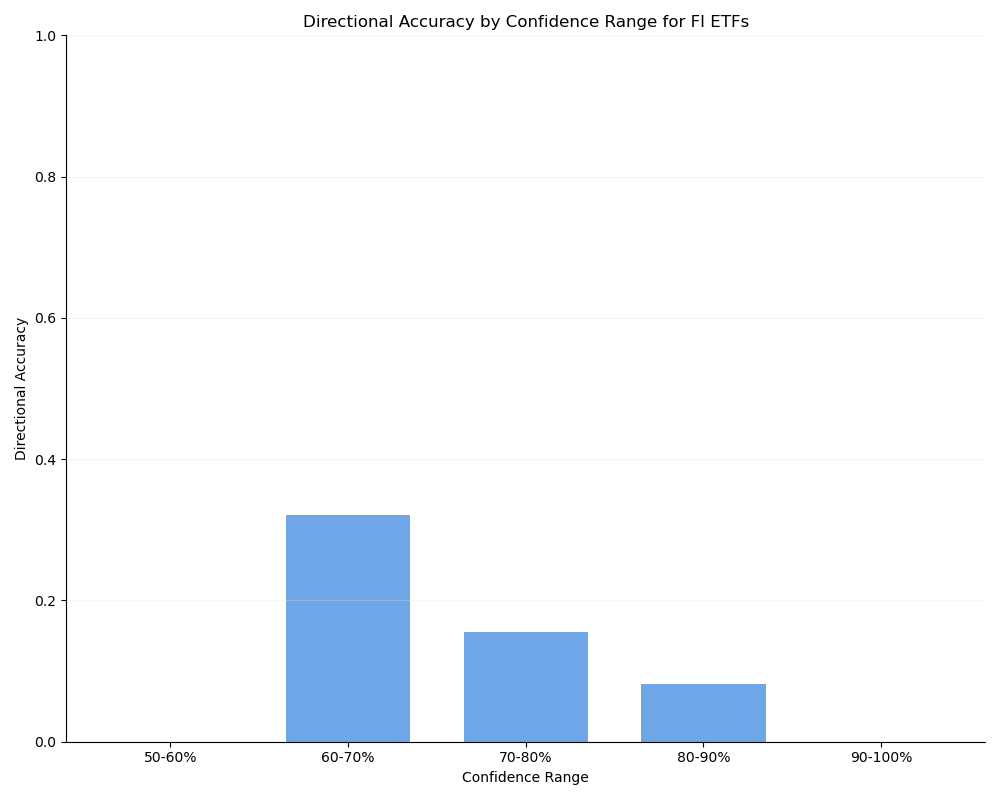
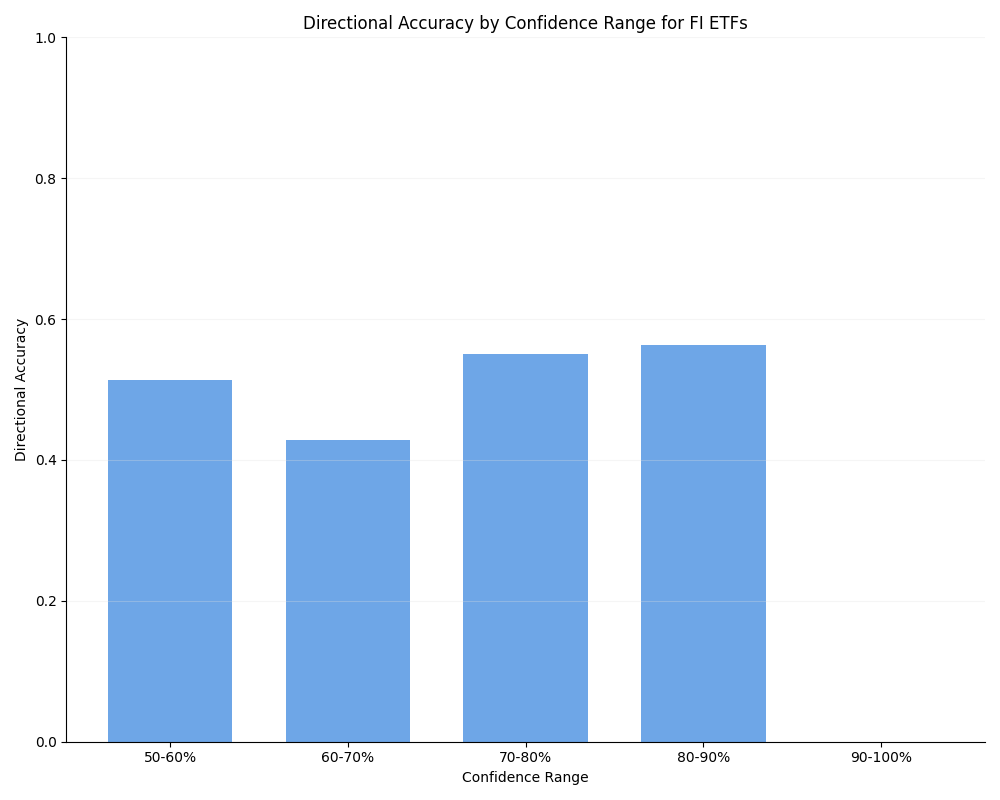
Fix Fixed Income Evaluator

diff --git a/0_evaluator.py b/0_evaluator.py
@@ -5,6 +5,54 @@ import os
 # 1.  CONFIG & DATA
 # ------------------------------------------------------------------
 from src.config.settings import PORTFOLIOS  
+def load_bond_etf_returns(filepath: str) -> pd.DataFrame:
+    """
+    Load bond ETF data from a CSV file and compute the full daily return for each ETF.
+    
+    The CSV file is expected to have at least the following columns:
+        - date: Trading date
+        - ticker: ETF ticker
+        - prc: Price (which may be negative for adjustments)
+        - ret: Daily price return (as a decimal)
+        - divamt: Dividend (or coupon) cash amount
+        - vwretd: Value-weighted total return (includes distributions)
+        
+    The function computes:
+        dividend_yield = divamt / abs(prc)   if prc is nonzero, else 0.
+        full_return = vwretd (if available) else ret + dividend_yield.
+    
+    The final DataFrame is pivoted so that the row index is the date and the columns are the ticker names.
+    
+    Parameters:
+        filepath (str): Path to the CSV file.
+    
+    Returns:
+        pd.DataFrame: Daily full return DataFrame with date as index and ticker as columns.
+    """
+    # Load the CSV file; ensure the date column is parsed as datetime.
+    df = pd.read_csv(filepath, parse_dates=['date'])
+    
+    # Ensure the required columns are present.
+    required_columns = ['date', 'ticker', 'prc', 'ret', 'divamt', 'vwretd']
+    missing = [col for col in required_columns if col not in df.columns]
+    if missing:
+        raise ValueError("Missing required columns: " + ", ".join(missing))
+    
+    # Compute dividend yield when price is nonzero.
+    df['dividend_yield'] = df.apply(lambda row: row['divamt'] / abs(row['prc']) if row['prc'] != 0 else 0, axis=1)
+    
+    # Compute full return:
+    # If vwretd is available (non-null), use it; otherwise, add the dividend yield to the price return.
+    df['computed_return'] = df.apply(
+        lambda row: row['vwretd'] if pd.notnull(row['vwretd']) else (row['ret'] + row['dividend_yield']),
+        axis=1
+    )
+    
+    # Pivot the DataFrame so that 'date' becomes the index and each ticker is a column.
+    full_return_df = df.pivot(index='date', columns='ticker', values='computed_return')
+    full_return_df.fillna(0, inplace=True)
+    
+    return full_return_df
 
 asset_class = "fi"  # fx, equity, fi, commodity
 PRED_FILE   = f"data/predictions/{asset_class}_weekly_predictions.csv"  
@@ -26,7 +74,7 @@ elif asset_class == "commodity":
 else:
     raise ValueError("Unsupported asset class")
 
-# date range that matches your back-test:
+# date range that matches back-test:
 START, END = "2023-11-03", "2025-03-28"
 
 # predictions  → wide matrix
@@ -35,14 +83,24 @@ pred = (pd.read_csv(PRED_FILE, parse_dates=["date"])
           .loc[START:END, TICKERS]
           .astype(float))
 
+
 # realised weekly return for NEXT week
 if PRICE_FILE and os.path.exists(PRICE_FILE):
     px = pd.read_csv(PRICE_FILE, index_col=0, parse_dates=True)[TICKERS]
 else:                                                                        # fallback
     px = yf.download(TICKERS, start=START, end=END, auto_adjust=True)["Adj Close"]
 
-weekly_px = px.resample("W-FRI").last().loc[START:END]
-realised  = weekly_px.pct_change().shift(-1).loc[pred.index]
+if asset_class == "fi":
+    daily = load_bond_etf_returns('data/bond_etf.csv')  # index=date, cols=tickers
+    # restrict to our window
+    daily = daily.loc[START:END, TICKERS]
+    
+    # 2) compound into weekly returns (Fri close to Fri close)
+    weekly = (daily + 1.0).resample("W-FRI").prod().sub(1.0)
+    
+    # align with next‑week forecast
+    # if pred_df is prediction for week t→t+1, we shift weekly returns up
+    realised = weekly.shift(-1).reindex(pred.index).fillna(0)
 
 # ------------------------------------------------------------------
 # 2.  DIRECTIONAL & ERROR METRICS
@@ -269,3 +327,4 @@ plt.plot(avg_real, label='Realised', alpha=.7)
 plt.axhline(0, ls='--', c='grey', lw=.6)
 plt.title(f'Weekly Return (lag = {BEST_LAG})')
 plt.legend()
+
